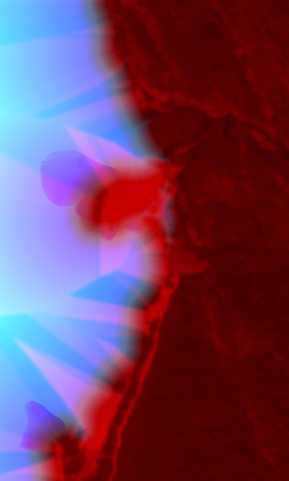
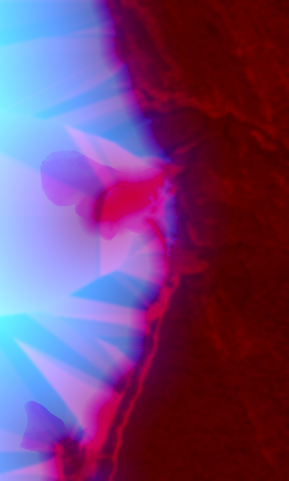
Fit Nugget Falls whitewater to its bed and blend the outlet into Mendenhall Lake

diff --git a/game/waterfall-system.js b/game/waterfall-system.js
@@ -16,14 +16,18 @@ window.makeWaterfallSystem=function makeWaterfallSystem(T,scene,{ground,level,cl
   const sheetUniforms=streamSurvey?{...common,activeCurrent:{value:streamSurvey.map},currentBounds:{value:streamSurvey.bounds}}:common;
   const sheet=new T.ShaderMaterial({uniforms:sheetUniforms,side:T.DoubleSide,transparent:true,depthWrite:false,
     vertexShader:`${lit}
-      attribute vec4 hydraulics;attribute vec2 impactAt;varying vec2 st,source;varying vec3 loc;varying vec4 water;
+      attribute vec4 hydraulics;attribute vec2 impactAt;${streamSurvey?'attribute vec2 measuredFlow;varying float metresToMouth;':''}varying vec2 st,source;varying vec3 loc;varying vec4 water;
       void main(){st=uv;source=impactAt;water=hydraulics;vec3 p=position;
+        ${streamSurvey?'metresToMouth=measuredFlow.y;':''}
         float motion=fallClock-hydraulics.y;float travelling=release(motion,impactAt);
-        float airborne=hydraulics.z;
+        // Flowing down a steep rock is not the same as falling through air.
+        // Wind can carry a free curtain sideways; an attached sheet stays
+        // on the surveyed 3D bed beneath its photographed footprint.
+        float airborne=${streamSurvey?'measuredFlow.x':'hydraulics.z'};
         p.xz+=fallWind*airborne*(.23+.54*fallGust)*(.60+.33*sin(1.38*motion+hydraulics.w+uv.x*4.))*(.45+hydraulics.x*.13);
         p.y+=airborne*.09*sin(uv.x*7.2+motion*3.1)+.07*travelling;
         loc=p;gl_Position=projectionMatrix*viewMatrix*vec4(p,1.);}`,
-    fragmentShader:`${lit} ${streamSurvey?'uniform sampler2D activeCurrent;uniform vec4 currentBounds;':''} uniform sampler2D fallSky;varying vec2 st,source;varying vec3 loc;varying vec4 water;
+    fragmentShader:`${lit} ${streamSurvey?'uniform sampler2D activeCurrent;uniform vec4 currentBounds;varying float metresToMouth;':''} uniform sampler2D fallSky;varying vec2 st,source;varying vec3 loc;varying vec4 water;
       void main(){float t=fallClock-water.y,grade=water.z,phase=water.w;
         float u=st.x,w=water.x,d=st.y,small=1.-smoothstep(3.5,7.,w);
         float life=release(t,source);float flow=t*(.11+.08*small);
@@ -61,6 +65,12 @@ window.makeWaterfallSystem=function makeWaterfallSystem(T,scene,{ground,level,cl
         // Turbulence can wet a narrow fringe without filling an island.
         float flowingFraction=smoothstep(.10,.82,survey.r+.065*(eddy.g-.5));
         alpha*=mix(1.,flowingFraction,confidence);
+        // The last cross-section is inside a moving lake. Collapse the
+        // optically thick sheet over distance into the persistent foam/wake.
+        float breakup=.16*w*(.55*(broken.g-.5)+.45*(drawn.r-.5));
+        float releaseIntoLake=smoothstep(.035*w,.42*w,metresToMouth+breakup);
+        alpha*=releaseIntoLake;
+
         froth=mix(froth,max(froth,.69+.21*streak+.094*flaky),confidence*flowingFraction*.79);
         `:''}
         vec3 v=normalize(cameraPosition-loc);
@@ -173,10 +183,10 @@ window.makeWaterfallSystem=function makeWaterfallSystem(T,scene,{ground,level,cl
   function chute(name,path,width,options={}){
     if(path.length<2)return;
     const nodes=[],spline=new T.CatmullRomCurve3(path.map(([x,z])=>new T.Vector3(x,0,z)),false,'centripetal');
-    const spacing=Math.min(1.8,Math.max(.27,width*.104));
+    const spacing=Math.min(streamSurvey?1.2:1.8,Math.max(.27,width*.104));
     const samples=spline.getSpacedPoints(Math.ceil(spline.getLength()/spacing)).map(p=>[p.x,p.z]);
     let fallTime=0,travel=0;
-    const cols=10,positions=[],uv=[],index=[],hydro=[],impactAt=[],heights=new Float32Array(cols+1),speeds=new Float32Array(cols+1);
+    const cols=streamSurvey?36:10,positions=[],uv=[],index=[],hydro=[],impactAt=[],freeWater=[],heights=new Float32Array(cols+1),speeds=new Float32Array(cols+1);
     const crosses=[],heightAt=(x,z)=>Math.max(ground(x,z),level??-Infinity);
     for(let i=0;i<samples.length;i++){
       const [x,z]=samples[i],a=samples[Math.max(0,i-1)],b=samples[Math.min(samples.length-1,i+1)];
@@ -189,7 +199,13 @@ window.makeWaterfallSystem=function makeWaterfallSystem(T,scene,{ground,level,cl
         width*(.72+.15*Math.sin(travel*.064)+.09*Math.sin(travel*.19+.6)+.08*Math.min(3,grade));
       const phase=.0043*path[0][0]+.0011*path[0][1];let air=0,collision=0,centerAir=0;
       for(let j=0;j<=cols;j++){
-        const u=j/cols,cross=(u-.5)*wid,px=x-dz*cross,pz=z+dx*cross,floor=heightAt(px,pz)+Math.min(.66,Math.max(.053,width*.037));
+        const u=j/cols,cross=(u-.5)*wid,px=x-dz*cross,pz=z+dx*cross,bed=heightAt(px,pz);
+        let thickness=Math.min(.66,Math.max(.053,width*.037));
+        if(streamSurvey&&level!=null){
+          const above=Math.max(0,Math.min(1,(bed-level)/1.5));
+          thickness=.056+(thickness-.056)*above*above*(3.-2.*above);
+        }
+        const floor=bed+thickness;
         // A parcel leaves the ledge with its current velocity. The bed catches
         // it again when gravity has closed the gap below the free trajectory.
         const flight=i?heights[j]+speeds[j]*dt-4.905*dt*dt:floor;
@@ -198,6 +214,7 @@ window.makeWaterfallSystem=function makeWaterfallSystem(T,scene,{ground,level,cl
         speeds[j]=flight>floor?speeds[j]-9.81*dt:-Math.min(6,grade*speed*.35);
         heights[j]=Math.max(floor,flight);air=Math.max(air,flight-floor);
         positions.push(px,heights[j],pz);uv.push(u,travel);
+        if(streamSurvey)freeWater.push(Math.min(1,Math.max(0,flight-floor)*.35),travel);
         hydro.push(wid,fallTime,Math.min(1,.19+grade*.54+Math.max(0,flight-floor)*.21),phase);
         if(i&&j){const k=i*(cols+1)+j;index.push(k-cols-2,k-1,k,k-cols-2,k,k-cols-1);}
       }
@@ -205,10 +222,15 @@ window.makeWaterfallSystem=function makeWaterfallSystem(T,scene,{ground,level,cl
       if(i%3===0||i===samples.length-1){const station={x,z,radius:wid*.54+1};
         for(let a=Math.floor((x-wid-12)/48);a<=Math.floor((x+wid+12)/48);a++)for(let b=Math.floor((z-wid-12)/48);b<=Math.floor((z+wid+12)/48);b++){
           const key=a+','+b;if(!channelCells.has(key))channelCells.set(key,[]);channelCells.get(key).push(station);}}
-      nodes.push({x,z,y:heights[cols>>1],dx,dz,floor:y,air,centerAir,time:fallTime,travel});
+      nodes.push({x,z,y:heights[cols>>1],dx,dz,floor:y,air,centerAir,time:fallTime,travel,width:wid});
     }
     const end=nodes.at(-1);for(let i=0;i<hydro.length;i+=4){hydro[i+1]-=fallTime;impactAt.push(end.x,end.z);}
-    const mesh=new T.Mesh(geometry(positions,uv,index,{hydraulics:[hydro,4],impactAt:[impactAt,2]}),sheet);mesh.name=name+' · falling water';mesh.userData.prepareFlightMaterial=true;scene.add(mesh);
+    const extras={hydraulics:[hydro,4],impactAt:[impactAt,2]};
+    if(streamSurvey){
+      for(let i=1;i<freeWater.length;i+=2)freeWater[i]=end.travel-freeWater[i];
+      extras.measuredFlow=[freeWater,2];
+    }
+    const mesh=new T.Mesh(geometry(positions,uv,index,extras),sheet);mesh.name=name+' · falling water';mesh.userData.prepareFlightMaterial=true;scene.add(mesh);
     // Also locate the foot of an attached chute where its steep, aerated
     // descent becomes a low-gradient stream. A downstream mouth gets only
     // the energy that actually remains, even after a very high upstream fall.

diff --git a/game/habitat.js b/game/habitat.js
@@ -93,12 +93,19 @@ window.addHabitat = function addHabitat(THREE,scene,world,region) {
     // The final two stations of Nugget Creek enter Mendenhall Lake here.
     // A spreading outflow distorts the glacial reflection and carries small
     // patches of entrained air away from the foot of the chute.
+    const outletRoute=mat.userData.nuggetLakeMargin?world.waterfalls?.routes.find(route=>route.name==='Nugget Falls'):null;
+    const mouth=outletRoute?.nodes.at(-1);
+    const upstream=mouth&&outletRoute.nodes.findLast(node=>mouth.travel-node.travel>22);
+    const jet=upstream?new THREE.Vector2(mouth.x-upstream.x,mouth.z-upstream.z).normalize():null;
+    const mouthXZ=jet?mouth.x.toFixed(2)+','+mouth.z.toFixed(2):'474.,680.';
+    const jetXZ=jet?jet.x.toFixed(4)+','+jet.y.toFixed(4):'-.866,.500';
+    const jetHalf=jet?(.39*mouth.width).toFixed(2):'8.';
     const riverMouth=glacial?`
-      vec2 delta=worldPosition.xz-vec2(474.,680.);
-      vec2 outflow=vec2(-.866,.500);
+      vec2 delta=worldPosition.xz-vec2(${mouthXZ});
+      vec2 outflow=vec2(${jetXZ});
       float runout=dot(delta,outflow),crossflow=dot(delta,vec2(-outflow.y,outflow.x));
       float plume=smoothstep(-18.,-3.,runout)*(1.-smoothstep(5.,59.,runout))
-                *(1.-smoothstep(.36,1.,abs(crossflow)/(8.+.26*max(0.,runout))));
+                *(1.-smoothstep(.36,1.,abs(crossflow)/(${jetHalf}+.26*max(0.,runout))));
       float entrained=0.;
       if(plume>.002){
         vec2 local=vec2(runout,crossflow);
@@ -164,7 +171,12 @@ window.addHabitat = function addHabitat(THREE,scene,world,region) {
         outgoingLight=mix(outgoingLight,mix(damp,through,flooded),nearShore);
       }
       ${glacial?'outgoingLight=mix(outgoingLight,vec3(.53,.63,.62),entrained*.45);':''}`;
-    mat.fragmentShader=shoreMotion+(glacial?window.mendenhallSedimentGLSL:'')+'\nuniform sampler2D pebbleBed,bedGrain,stoneShelf;\n'+mat.fragmentShader
+    let lakeShore=shoreMotion;
+    if(mat.userData.nuggetLakeMargin){
+      lakeShore='uniform sampler2D deltaShoal;\n'+shoreMotion.replace('vec3 marginAt(', 'vec3 nuggetRegionalMargin(')+mat.userData.nuggetLakeMargin;
+      mat.fragmentShader=mat.fragmentShader.replace('uniform sampler2D deltaShoal;', '');
+    }
+    mat.fragmentShader=lakeShore+(glacial?window.mendenhallSedimentGLSL:'')+'\nuniform sampler2D pebbleBed,bedGrain,stoneShelf;\n'+mat.fragmentShader
       .replace('vec3 surfaceNormal=normalize',optics+'\n          vec3 surfaceNormal=normalize')
       .replace('gl_FragColor = vec4( outgoingLight, alpha );',shallows+'\n          gl_FragColor = vec4( outgoingLight, alpha );');
   }
@@ -261,7 +273,12 @@ window.addHabitat = function addHabitat(THREE,scene,world,region) {
             }`:''}
         }
       `;
-      mat.fragmentShader=shoreMotion+(glacial?window.mendenhallSedimentGLSL:'')+(sw?'\nuniform sampler2D strandPhoto;':'')+'\nuniform sampler2D beachScan;\n'+mat.fragmentShader.replace(anchor,layers+anchor);
+      let lakeShore=shoreMotion;
+    if(mat.userData.nuggetLakeMargin){
+      lakeShore='uniform sampler2D deltaShoal;\n'+shoreMotion.replace('vec3 marginAt(', 'vec3 nuggetRegionalMargin(')+mat.userData.nuggetLakeMargin;
+      mat.fragmentShader=mat.fragmentShader.replace('uniform sampler2D deltaShoal;', '');
+    }
+    mat.fragmentShader=lakeShore+(glacial?window.mendenhallSedimentGLSL:'')+(sw?'\nuniform sampler2D strandPhoto;':'')+'\nuniform sampler2D beachScan;\n'+mat.fragmentShader.replace(anchor,layers+anchor);
     }
   }
   const tileMap=new Map();

diff --git a/game/nugget-surface.js b/game/nugget-surface.js
@@ -81,12 +81,28 @@ window.nuggetSurfaceShader=function nuggetSurfaceShader(localUV){
 // that reflection through the shallow aerated water and its fine sediment.
 window.nuggetShallows=function nuggetShallows(material,texture){
   material.uniforms.deltaShoal={value:texture};
+  // Register with the habitat shoreline pass, which runs after reflection
+  // and refraction and decides whether each fragment contains water or land.
+  material.userData.nuggetLakeMargin=`
+    vec3 marginAt(vec2 p){
+      vec3 basin=nuggetRegionalMargin(p);
+      vec2 uv=(p-vec2(348.,532.))/vec2(288.,480.);
+      float edge=min(min(uv.x,1.-uv.x)*288.,min(uv.y,1.-uv.y)*480.);
+      if(edge<=0.)return basin;
+      vec3 survey=texture2D(deltaShoal,vec2(uv.x,1.-uv.y)).rgb;
+      float sd=2.*survey.b-1.;
+      float distanceM=56.*sd*abs(sd),depth=4.*survey.g;
+      // An optical slope estimate for the unsounded, glacially turbid shelf.
+      float grade=clamp(depth/max(1.,distanceM),.04,.50);
+      return mix(basin,vec3(distanceM,depth,grade),smoothstep(0.,13.,edge));
+    }`;
   const wetOptics=`
     if(surface.x>348.&&surface.x<636.&&surface.y>532.&&surface.y<1012.){
       vec2 delta=(surface-vec2(348.,532.))/vec2(288.,480.);
       vec3 shoal=texture2D(deltaShoal,vec2(delta.x,1.-delta.y)).rgb;
       float seam=min(min(delta.x,1.-delta.x),min(delta.y,1.-delta.y));
-      float reach=smoothstep(0.,.085,seam)*(1.-smoothstep(.22,1.,shoal.b));
+      float sd=2.*shoal.b-1.;
+      float reach=smoothstep(0.,.085,seam)*(1.-smoothstep(7.,30.,56.*sd*abs(sd)));
       float opticalDepth=shoal.g*4.;
       float travel=opticalDepth/max(.39,theta);
       // At the lip, fine sand is visible through the water. Longer optical

diff --git a/tools/geology/nugget-falls/bake_field.py b/tools/geology/nugget-falls/bake_field.py
@@ -248,7 +248,11 @@ def bake(cache, sentinel, game):
     fineTone = (gravelPhoto @ np.array([0.25, 0.59, 0.16], dtype="f"))[tuple(indices)]
     fineTone = blur(fineTone, 1.5)
     opticalDepth = np.clip(np.minimum(np.maximum(0, 0.18 - beachDEM), 0.087 * shoreDistance) + 0.018 * shoreDistance, 0, 4)
-    shoal = np.stack([fineTone, opticalDepth / 4, np.clip(shoreDistance/30, 0, 1)], axis=2)
+    # The old regional shoreline polygon predates this outwash surface.
+    # Match the lake shader's signed distance convention on both sides.
+    signedDistance = np.clip(shoreDistance - distance_transform_edt(dry), -56, 56)
+    signedCode = .5 + .5 * np.sign(signedDistance) * np.sqrt(np.abs(signedDistance) / 56)
+    shoal = np.stack([fineTone, opticalDepth / 4, signedCode], axis=2)
     Image.fromarray(np.uint8(np.clip(shoal*255+0.5,0,255))).save(game / "alaska-nugget-shoal.webp", lossless=True, method=6)
     # Extract local maxima across physically plausible crown widths. The same
     # treetop cannot be reintroduced by another scale in a dense stand.

diff --git a/tools/geology/nugget-falls/README.md b/tools/geology/nugget-falls/README.md
@@ -18,3 +18,5 @@ python "$site/bake_field.py" "$cache" "$cache" game
 `nugget-field-receipt.json` records the extent, resolutions, crown count and estimated photographic coverage. The fetchers write source URLs, dates and input checksums or Entwine node IDs into the same cache. The `CBJ1` attachment records where canopy observations are available, including observed bare ground. `FLW1` holds the downhill center and active width of each observed watercourse station. The waterfall sheet samples a second mask for dry rock islands and uncertainty in the photographs.
 
 The ground comes from the 2023 USGS Southeast Alaska landslides survey. Crown heights come from the 2012 USGS and 2013 Juneau lidar. Public 2013 Juneau LAS point colors supply the photographed slabs and historical channel extent. Crown shape and species are inferred from height, spread and local vegetation. Water speed, foam and illumination are animated. Sentinel-2 covers unsampled land. The game credits include project links and dates.
+
+The lake receiver uses the same exposed 2023 relief as the main Nugget bank. The 289 × 481 optical field covers x = 348…636 m and z = 532…1012 m. Red carries the nearby sediment return tone. Green encodes inferred optical depth up to 4 m. Blue encodes wet-positive signed distance with the same signed-square-root convention as the basin shoreline survey over ±56 m. The optical slope and depth are estimates in opaque glacial water. The last measured chute narrows its vertical thickness as it reaches the lake and splits into the simulated foam/current at the final surveyed station.
